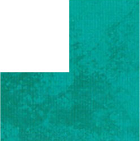
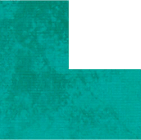
Add files via upload

diff --git a/Ubongo/Ubongo/Ubongo.py b/Ubongo/Ubongo/Ubongo.py
@@ -7,6 +7,8 @@ pygame.init()
 win = pygame.display.set_mode((1200,800))
 pygame.display.set_caption("Ubongo")
 bg = pygame.image.load('mesa.jpg')
+brd1 = pygame.image.load('tablero1.png')
+brd2 = pygame.image.load('tablero2.png')
 brd = pygame.image.load('tablero.jfif')
 gema = pygame.image.load('gema2.png')
 py2 = pygame.image.load('p2.png')
@@ -26,7 +28,8 @@ class board(object):
         self.width = width
         self.height = height
     def draw(self, win):
-        win.blit(brd, (self.x , self.y))
+        win.blit(brd1, (self.x , self.y))
+        win.blit(brd2, (self.x +475, self.y))
 
 #dado
 class dice(object):
@@ -132,7 +135,8 @@ class templaterect(object):
 #piezas 
 class pieces(object):
     
-    pzs1 = [pygame.image.load('ficha1.png') , pygame.image.load('ficha1_1.png')]
+    #pzs1 = [pygame.image.load('ficha1.png') , pygame.image.load('ficha1_1.png')]
+    
     def __init__(self,x,y,width,height, number):
         self.x = x
         self.y = y
@@ -142,6 +146,10 @@ class pieces(object):
         self.number = number
         self.subnumber = 0
         self.visible = True
+        self.rect1 = []
+        self.rect2 = []
+        self.rect3 = []
+        self.create_rect_col()
     def draw(self, win):
         if self.visible:
             win.blit(pzs[self.number], (self.x, self.y))
@@ -160,8 +168,63 @@ class pieces(object):
         if self.x <= 764 and self.y <= 611:
             return True
         return False
+    def create_rect_col(self):     
+            if self.number == 4:
+                self.rect1 = [self.x , self.y, (self.width/2), self.height]
+                self.rect2 = [self.x + (self.width/2) , self.y + (self.height/2), (self.width/2), (self.height /2 )]  
+            elif self.number == 5:
+                self.rect1 = [self.x , self.y, (self.width/2), (self.height)]
+                self.rect2 = [(self.x + (self.width/2)) , self.y + (self.height/3), (self.width/2), (self.height /3 )]
+            elif self.number == 6:
+                self.rect1 = [self.x , self.y, (self.width/3), (self.height/2)]
+                self.rect2 = [(self.x ) , self.y + (self.height/2), (self.width), (self.height /2 )]
+            elif self.number == 7:
+                self.rect1 = [self.x , self.y, (self.width/2), (self.height/3)*2]
+                self.rect2 = [self.x + (self.width/2), self.y + (self.height/3),   (self.width/2), (self.height /3 )*2]
+            elif self.number == 8:
+                self.rect1 = [self.x , self.y, (self.width/2), self.height]
+                self.rect2 = [self.x +(self.width/2)  , self.y , (self.width/2), (self.height /4 )]
+            elif self.number == 9:
+                self.rect1 = [self.x , self.y, (self.width/2), self.height]
+                self.rect2 = [self.x +(self.width/2)  , self.y , (self.width/2), (self.height /4 )]
+            elif self.number == 11:
+                self.rect1 = [self.x , self.y, (self.width/3), (self.height/3)]
+                self.rect2 = [self.x +(self.width/3)  , self.y , (self.width/3), (self.height)]
+                self.rect3 = [self.x +((self.width/3)*2)  , self.y + ((self.width/3)*2) , (self.width/3), (self.height /3 )]
 
 
+    def draw_rect_col(self, win):
+        if self.number <= 3:
+            pygame.draw.rect(win, (0,0,255), (self.x, self.y, self.width, self.height) ,2)
+        else:
+            if self.number == 4:
+                self.rect1 = [self.x , self.y, (self.width/2), self.height]
+                self.rect2 = [self.x + (self.width/2) , self.y + (self.height/2), (self.width/2), (self.height /2 )] 
+                pygame.draw.rect(win, (0,0,255), (self.rect1) ,2)
+                pygame.draw.rect(win, (0,0,255),(self.rect2) ,2)
+            elif self.number == 6:
+                self.rect1 = [self.x , self.y, (self.width/3), (self.height/2)]
+                self.rect2 = (self.x  , self.y + (self.height/2), (self.width), (self.height /2 ))
+                pygame.draw.rect(win, (0,0,255), (self.rect1) ,2)
+                pygame.draw.rect(win, (0,0,255), (self.rect2) ,2)
+            elif self.number == 7:
+                self.rect1 = [self.x , self.y, (self.width/2), (self.height/3)*2]
+                self.rect2 = (self.x + (self.width/2), self.y + (self.height/3),   (self.width/2), (self.height /3 )*2)
+                pygame.draw.rect(win, (0,0,255), (self.rect1) ,2)
+                pygame.draw.rect(win, (0,0,255), (self.rect2) ,2)
+            elif self.number == 8:
+                self.rect1 = [self.x , self.y, (self.width/2), self.height]
+                self.rect2 = [self.x +(self.width/2)  , self.y , (self.width/2), (self.height /4 )]
+                pygame.draw.rect(win, (0,0,255), (self.rect1) ,2)
+                pygame.draw.rect(win, (0,0,255), (self.rect2) ,2)
+            elif self.number == 11:
+                self.rect1 = [self.x , self.y, (self.width/3), (self.height/3)]
+                self.rect2 = [self.x +(self.width/3)  , self.y , (self.width/3), (self.height)]
+                self.rect3 = [self.x +((self.width/3)*2)  , self.y + ((self.width/3)*2) , (self.width/3), (self.height /3 )]
+                pygame.draw.rect(win, (0,0,255), (self.rect1) ,2)
+                pygame.draw.rect(win, (0,0,255), (self.rect2) ,2)
+                pygame.draw.rect(win, (0,0,255), (self.rect3) ,2)
+            
 
 #jUGADOR
 class player(object):
@@ -219,6 +282,7 @@ def redrawGameWindow():
     plantilla.draw(win)
     for pz in piezas:
        pz.draw(win)
+       pz.draw_rect_col(win)
     cuadrado.draw(win)
     for cl in cualalitos:
        cl.draw(win)
@@ -244,7 +308,7 @@ font = pygame.font.SysFont('comicsans', 50, True )
 jugador = player(200, 0 ,0 ,0)
 y = random.choice(range(0,6))
 jugadorcpu = playerCPU(265,200-(17*y),0,0)
-tablero = board(165, 100, 914 , 200)
+tablero = board(165, 25, 914 , 200)
 flecha = arrow(150,200,0,0)
 dado = dice(1010, 600, 200,200) 
 plantilla = template(250,310, 0,0)
@@ -263,11 +327,14 @@ piezas = []
 gemas = []
 x = 0 
 y = 0
-for i in range(12):
-    num = random.choice(range(0,6))
+for j in range(6):
+    for i in range(12):
+        num = random.choice(range(0,6))
    
-    gemas.append(gem(326 + x, 208 + y, 29 , 27, num))
-    x = x +47
+        gemas.append(gem(338 + x, 65 + y, 29 , 27, num))
+        x = x +55
+    y = y +32
+    x = 0
 
 #juego
 run = True
@@ -313,7 +380,8 @@ while run:
                 pos = pygame.mouse.get_pos()
                 if dado.hitbox[0] < pos[0] and pos[0] < dado.hitbox[0] + dado.hitbox[2]:
                     if dado.hitbox[1] < pos[1] and pos[1] < dado.hitbox[1] + dado.hitbox[3]:
-                        dado.ThrowDice()
+                        dado.number = 2
+                        #dado.ThrowDice()
                         dado.throwed = True
                         cuadrado.y = cuadrado.yini + ((cuadrado.height * dado.number)+(dado.number* 13.5))
                         for i in range(3):
@@ -344,12 +412,34 @@ while run:
                         piezas[2].visible = True
                         PieceSelect = 2
 
-    def verify():
+    
+    def colision():
                 for i in range(16):
                     for j in range(3):
-                        if  piezas[j].x < cualalitos[i].x and cualalitos[i].x + cualalitos[i].width < piezas[j].x + piezas[j].width:
-                            if  piezas[j].y < cualalitos[i].y and cualalitos[i].y + cualalitos[i].height < piezas[j].y + piezas[j].height:
-                                 plantilla.solv_aux[i] = False
+                        if piezas[j].number <= 3:
+                            if  piezas[j].x < cualalitos[i].x and cualalitos[i].x + cualalitos[i].width < piezas[j].x + piezas[j].width:
+                                if  piezas[j].y < cualalitos[i].y and cualalitos[i].y + cualalitos[i].height < piezas[j].y + piezas[j].height:
+                                     plantilla.solv_aux[i] = False
+                        elif piezas[j].number == 4 or piezas[j].number == 6 or piezas[j].number == 8 or piezas[j].number == 7:
+                            if  piezas[j].rect1[0] < cualalitos[i].x and cualalitos[i].x + cualalitos[i].width < piezas[j].rect1[0]+ piezas[j].rect1[2]:
+                                if  piezas[j].rect1[1] < cualalitos[i].y and cualalitos[i].y + cualalitos[i].height < piezas[j].rect1[1] + piezas[j].rect1[3]:
+                                     plantilla.solv_aux[i] = False
+                            if  piezas[j].rect2[0] < cualalitos[i].x and cualalitos[i].x + cualalitos[i].width < piezas[j].rect2[0]+ piezas[j].rect2[2]:
+                                if  piezas[j].rect2[1] < cualalitos[i].y and cualalitos[i].y + cualalitos[i].height < piezas[j].rect2[1] + piezas[j].rect2[3]:
+                                     plantilla.solv_aux[i] = False
+                        elif piezas[j].number == 11:
+                            if  piezas[j].rect1[0] < cualalitos[i].x and cualalitos[i].x + cualalitos[i].width < piezas[j].rect1[0]+ piezas[j].rect1[2]:
+                                if  piezas[j].rect1[1] < cualalitos[i].y and cualalitos[i].y + cualalitos[i].height < piezas[j].rect1[1] + piezas[j].rect1[3]:
+                                     plantilla.solv_aux[i] = False
+                            if  piezas[j].rect2[0] < cualalitos[i].x and cualalitos[i].x + cualalitos[i].width < piezas[j].rect2[0]+ piezas[j].rect2[2]:
+                                if  piezas[j].rect2[1] < cualalitos[i].y and cualalitos[i].y + cualalitos[i].height < piezas[j].rect2[1] + piezas[j].rect2[3]:
+                                     plantilla.solv_aux[i] = False
+                            if  piezas[j].rect3[0] < cualalitos[i].x and cualalitos[i].x + cualalitos[i].width < piezas[j].rect3[0]+ piezas[j].rect3[2]:
+                                if  piezas[j].rect3[1] < cualalitos[i].y and cualalitos[i].y + cualalitos[i].height < piezas[j].rect3[1] + piezas[j].rect3[3]:
+                                     plantilla.solv_aux[i] = False
+
+
+
     def solve():
         pv = ([594,412],[662,412],[730,412],[798,412],[594,480],[662,480],[730,480],[798,480],
         [594,548],[662,548],[730,548],[798,548],[594,616],[662,616],[730,616],[798,616])
@@ -364,7 +454,7 @@ while run:
                        piezas[2].x = pv[f3][0]
                        piezas[2].y = pv[f3][1]
                        redrawGameWindow()
-                       verify()
+                       colision()
                        if plantilla.Is_solved():
                            completed = True
                            return True
@@ -374,7 +464,7 @@ while run:
     
 #Colission piezas plantilla
     if dado.throwed:
-       verify()
+       colision()
       
        if plantilla.Is_solved():
            completed = True
